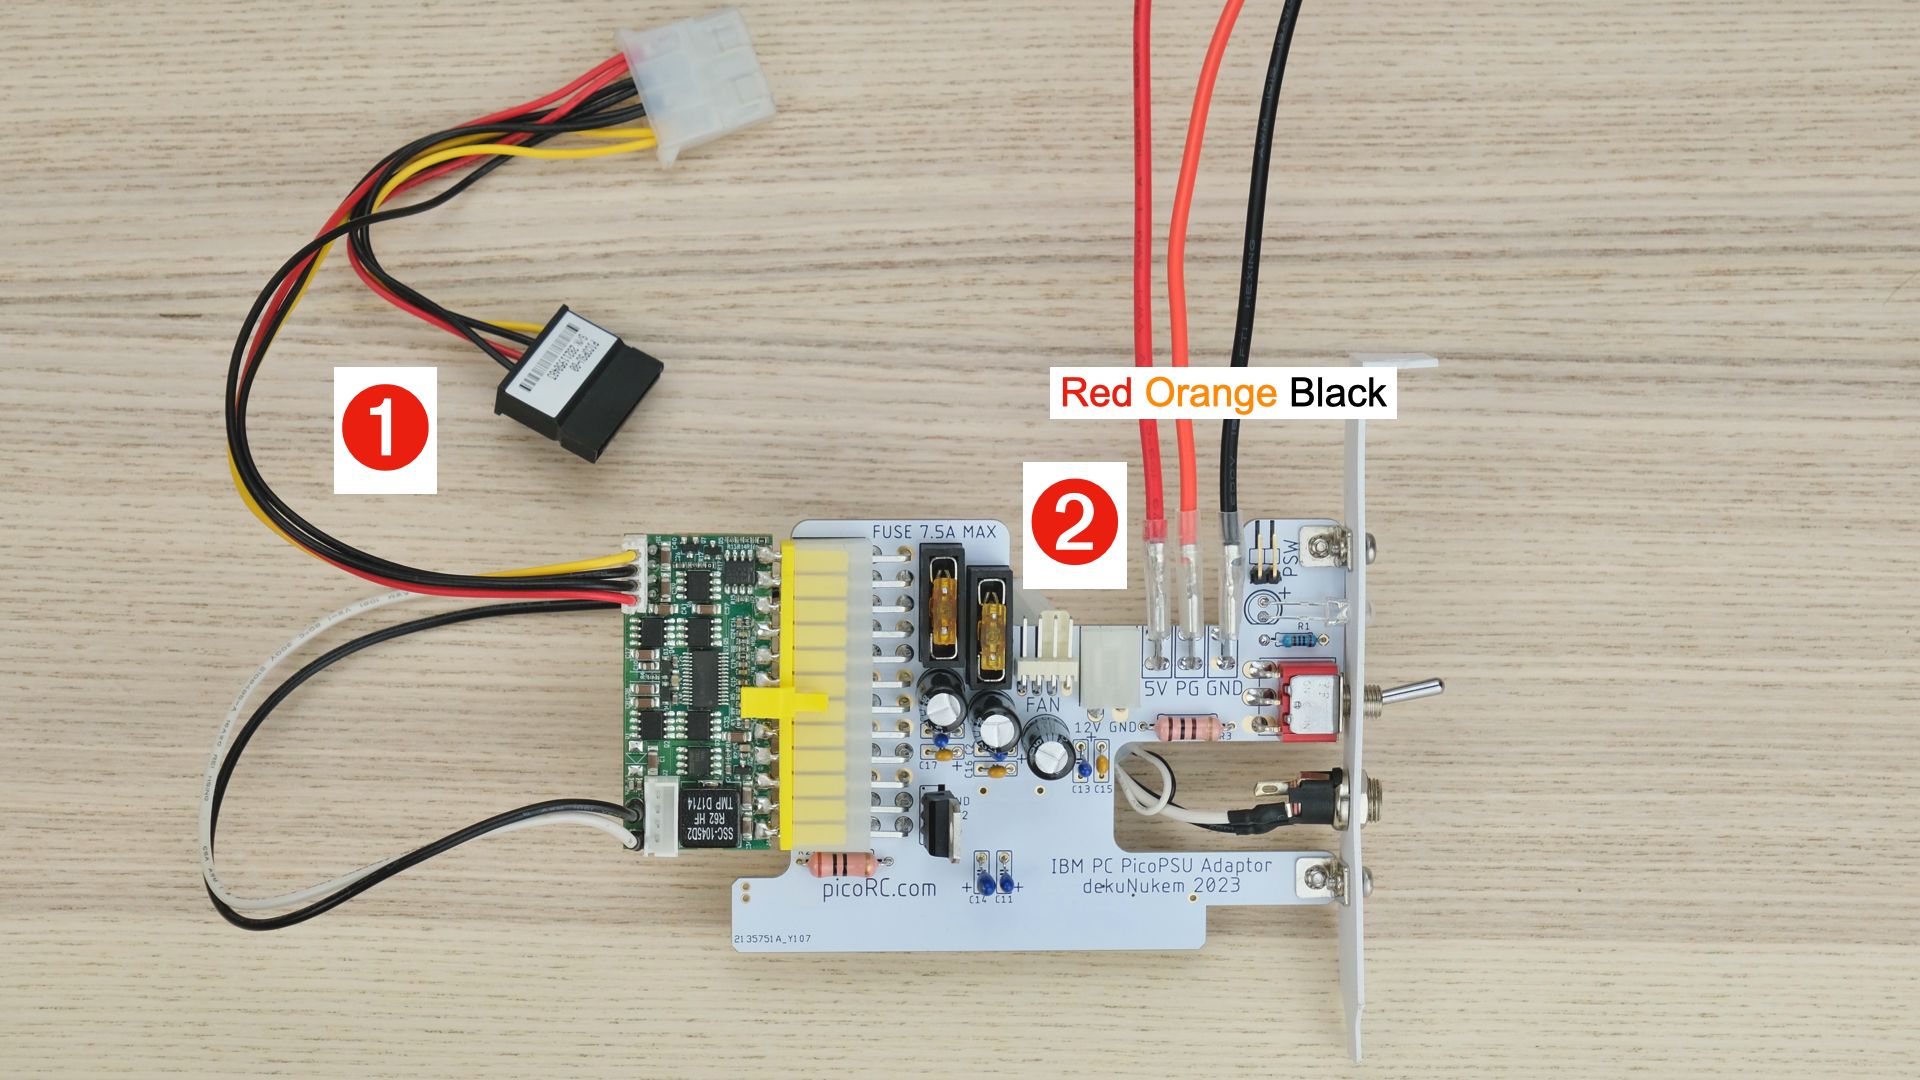
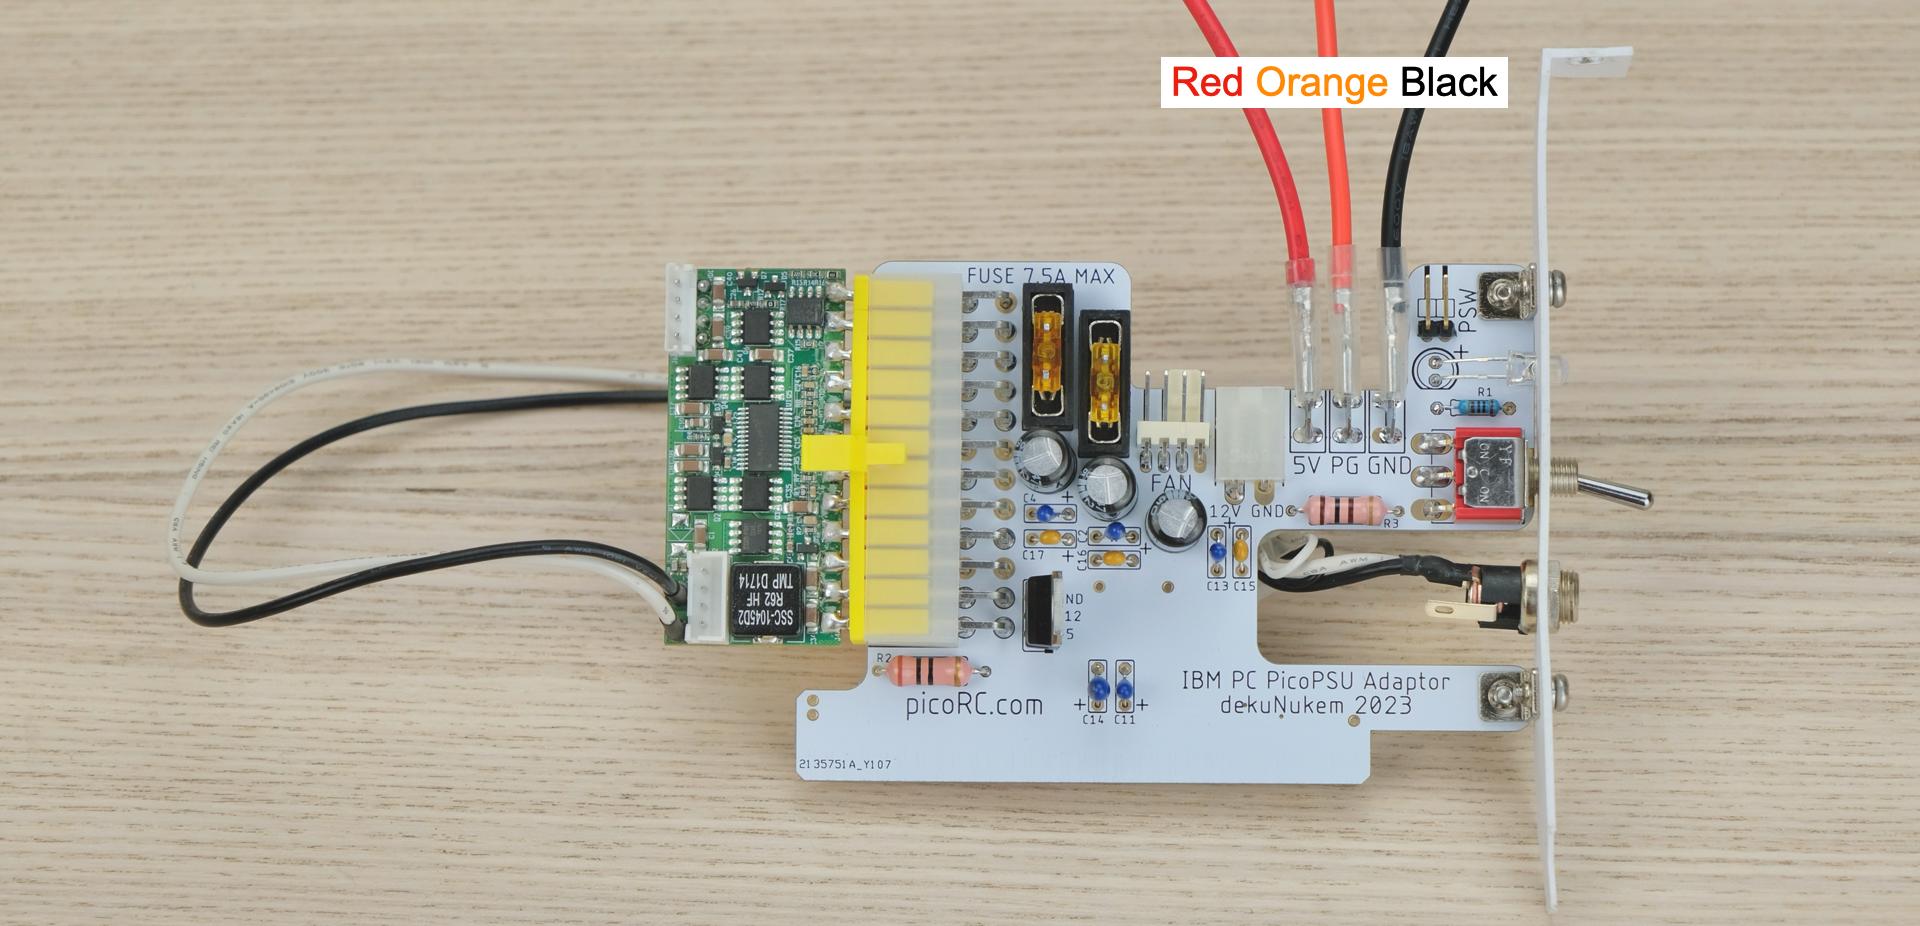
writing

diff --git a/ibmpc.md b/ibmpc.md
@@ -8,7 +8,7 @@
 
 This adaptor lets you use **Pico ATX PSU** on IBM PC and clones. 
 
-From the original PC 5150 all the way to Pentium III era!
+From the original PC 5150 all the way to the Pentium III era!
 
 ![Alt text](photos/ibmpc/title.jpeg)
 
@@ -25,8 +25,6 @@ The PSU-in-a-Card replaces the original PSU, and uses very common **12V power br
 * **PC fan** header
 
 * Built-in power switch, also supports external switch.
-
-* Compatible with motherboards with ISA slots and AT-style power connector
 
 ## Get One / Other Stuff
 
@@ -166,9 +164,7 @@ Tighten the ring from the other side. Use 10mm socket.
 
 ![Alt text](photos/ibmpc/jack.jpeg)
 
-(1) Attach the harness that came with the PicoPSU.
-
-(2) Insert the power cables into the terminal blades.
+Insert the power cables into the terminal blades.
 
 * Match the colours! (RED: 5V | ORANGE: PowerGood | BLACK: GND)
 
@@ -282,7 +278,7 @@ In this case, you can open up the PSU and see if it is labelled there.
 
 ## Moment of Truth
 
-If testing an unknown PC, it is recommended to start minimal with just the motherboard and video card.
+If testing an unknown PC, it is recommended to start minimal with just the motherboard and video card. Remove all extra cards and disconnect the drives.
 
 Plug in and flip the switch!
 
@@ -290,13 +286,21 @@ Plug in and flip the switch!
 
 If it works, congrats! You can now add more parts back in.
 
+For drives, use the harness that came with the PicoPSU.
+
+![Alt text](photos/ibmpc/molex.png)
+
 Keep an eye on the temperature of the PicoPSU.
 
 Active ventilation might be needed if it gets too hot.
 
-Any standard 12V PC fan would work.
+Any standard 12V PC fan should work.
+
+![Alt text](photos/ibmpc/fan.jpeg)
 
 ## But I want to use the Big Red Switch™!
+
+## IBM 5155 Instructions
 
 ## Questions or Comments?
 
